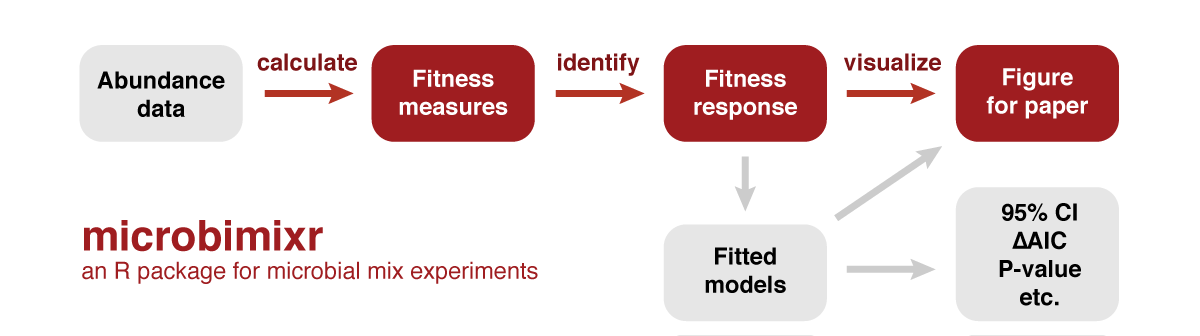
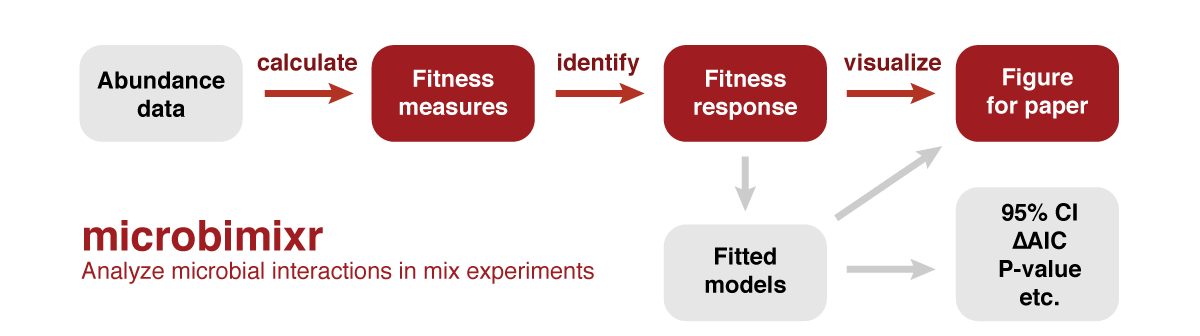
Simplify README
So it's not so redundant with the "Get started" vignette. Also add better title for the package website.

Changed region(s): [[0.0617, 0.7738, 0.4933, 0.8333], [0.8017, 0.9821, 0.925, 1.0], [0.555, 0.9821, 0.6783, 1.0]]

diff --git a/README.md b/README.md
@@ -9,14 +9,14 @@ microbimixr
 coverage](https://codecov.io/gh/matryoshkev/microbimixr/graph/badge.svg)](https://app.codecov.io/gh/matryoshkev/microbimixr)
 <!-- badges: end -->
 
-## Analyze microbial interactions in mix experiments
+microbimixr is an R package to analyze microbial interactions in mix
+experiments. Studies of cooperation and conflict among microbes often
+use a common experimental design: mix together two strains then measure
+how their survival and reproduction depend on strain frequency. How do
+they act differently together than they do on their own?
 
-Studies of cooperation and conflict among microbes often use a common
-experimental design: mix together two microbes (different strains of
-bacteria, for example) then measure how their survival and reproduction
-depend on strain frequency. How do they act differently together than
-they do on their own? microbimixr helps you get the most out of this
-data by providing tools to:
+microbimixr helps you get the most out of this data by providing tools
+to:
 
 -   Calculate best-practice fitness measures
 -   Identify which fitness measures are best for your data and research
@@ -25,10 +25,8 @@ data by providing tools to:
 
 ![](./man/figures/README-workflow.png)
 
-## Calculate fitness measures
-
 There are many ways to quantify microbial survival and reproduction.
-microbimixr makes it easy to calculate fitness measures that are:
+microbimixr makes it easy to use fitness measures that are:
 
 -   Robust and quantitatively comparable across different species and
     different types of interaction
@@ -36,110 +34,56 @@ microbimixr makes it easy to calculate fitness measures that are:
     intervals
 -   Useful for both individual and group-centered approaches to social
     behavior
--   Directly comparable to theoretical models of microbial evolution
-
-Starting from a data frame with the initial and final abundance of each
-microbe, calculate fitness with `calculate_mix_fitness()`:
-
-``` r
-library("microbimixr")
-fitness_myxo <- calculate_mix_fitness(
-    data_smith_2010, 
-    var_names = c(
-        initial_number_A = "initial_cells_evolved",
-        initial_number_B = "initial_cells_ancestral",
-        final_number_A = "final_spores_evolved",
-        final_number_B = "final_spores_ancestral", 
-        name_A = "evolved", 
-        name_B = "ancestral"
-    )
-)
-head(fitness_myxo)
-#>    name_A    name_B initial_fraction_A initial_ratio_A_B    fitness_A
-#> 1 evolved ancestral         1.00000000               Inf 1.200000e-07
-#> 2 evolved ancestral         0.98901099       90.00000000 1.555556e-07
-#> 3 evolved ancestral         0.90000000        9.00000000 2.600000e-06
-#> 4 evolved ancestral         0.50000000        1.00000000 4.280000e-04
-#> 5 evolved ancestral         0.10000000        0.11111111 4.200000e-02
-#> 6 evolved ancestral         0.01098901        0.01111111 8.420000e-01
-#>    fitness_B fitness_total fitness_ratio_A_B
-#> 1         NA  1.200000e-07                NA
-#> 2 0.00000400  1.978022e-07        0.03888889
-#> 3 0.00000480  2.820000e-06        0.54166667
-#> 4 0.00156000  9.940000e-04        0.27435897
-#> 5 0.01400000  1.680000e-02        3.00000000
-#> 6 0.02288889  3.189011e-02       36.78640777
-```
+-   Directly comparable to theoretical models based on kin selection,
+    multilevel selection, or game theory
 
 microbimixr works with most types of microbial abundance data including
 cell counts, cell density, optical density, and strain frequency.
 
-## Identify fitness response
-
-To quickly see what fitness measures would be most useful for your
-research question and data, use `plot_mix_fitness()`. It draws a
-combined figure that lets you compare strain fitness, total fitness, and
-the ratio of strain fitnesses. It also lets you compare linear and
-logarithmic measures of strain frequency.
+## Example usage
 
 ``` r
-plot_mix_fitness(fitness_myxo)
+library(microbimixr)
+
+# Calculate fitness measures
+fitness_myxo <- 
+    data_smith_2010 |>
+    calculate_mix_fitness(
+        var_names = c(
+            initial_number_A = "initial_cells_evolved",
+            initial_number_B = "initial_cells_ancestral",
+            final_number_A = "final_spores_evolved",
+            final_number_B = "final_spores_ancestral", 
+            name_A = "evolved", 
+            name_B = "ancestral"
+        ),
+        keep = "exptl_block"
+    )
+head(fitness_myxo)
+#>   exptl_block  name_A    name_B initial_fraction_A initial_ratio_A_B
+#> 1  2009-04-29 evolved ancestral         1.00000000               Inf
+#> 2  2009-04-29 evolved ancestral         0.98901099       90.00000000
+#> 3  2009-04-29 evolved ancestral         0.90000000        9.00000000
+#> 4  2009-04-29 evolved ancestral         0.50000000        1.00000000
+#> 5  2009-04-29 evolved ancestral         0.10000000        0.11111111
+#> 6  2009-04-29 evolved ancestral         0.01098901        0.01111111
+#>      fitness_A  fitness_B fitness_total fitness_ratio_A_B
+#> 1 1.200000e-07         NA  1.200000e-07                NA
+#> 2 1.555556e-07 0.00000400  1.978022e-07        0.03888889
+#> 3 2.600000e-06 0.00000480  2.820000e-06        0.54166667
+#> 4 4.280000e-04 0.00156000  9.940000e-04        0.27435897
+#> 5 4.200000e-02 0.01400000  1.680000e-02        3.00000000
+#> 6 8.420000e-01 0.02288889  3.189011e-02       36.78640777
 ```
-
-<!-- ggplot2::ggsave("README-compare-measures.png", width = 6.25, height = 4.5) -->
-
-![](./man/figures/README-compare-measures.png)
-
-For example, this interaction between two genotypes of *Myxococcus*
-bacteria would be easiest to interpret and analyze as total fitness as a
-function of initial genotype fraction and fitness ratio as a function of
-initial genotype ratio. They’re the simplest fitness responses and
-easiest to fit statistical models to. These plots also let you interpret
-your data in terms of the different fitness outcomes used by theories of
-social evolution like kin selection, multilevel selection, and game
-theory.
-
-## Visualize fitness effects
-
-Once you know which fitness measures to analyze, you can use microbimixr
-to make publication-quality figures. The package includes convenience
-functions to plot data with default settings appropriate for mix
-experiments. Fitness axes are plotted on $\log_{10}$ scales, for
-example, include 1 for reference (no net change in abundance), and have
-a minimum ten-fold range.
 
 ``` r
-library("patchwork")
-fig_total <- plot_total_fitness(fitness_myxo)
-fig_ratio <- plot_fitness_ratio(fitness_myxo, mix_scale = "ratio", ylim = c(1e-4, 1e4))
-fig_total + fig_ratio
+# Compare fitness measures
+plot_mix_fitness(fitness_myxo, mix_scale = "fraction")
 ```
 
-<!-- ggsave("README-plots-simple.png", width = 5, height = 2.25) -->
+<!-- ggplot2::ggsave("README-compare-myxo.pdf", width = 6.3, height = 2.25) -->
 
-![](./man/figures/README-plots-simple.png)
-
-You can also customize these plots using the
-[ggplot2](https://ggplot2.tidyverse.org/) graphics package:
-
-``` r
-library("ggplot2")
-fitness_myxo |>
-    plot_total_fitness(
-        xlab = "Initial frequency of evolved strain",
-        ylab = "Total sporulation\n(spores/cell)", 
-        ylim = c(1e-8, 1), color = "darkblue", fill = "skyblue"
-    ) +
-    geom_smooth(
-        method = "lm", formula = y ~ poly(x, 2), 
-        se = FALSE, linewidth = 0.5
-    ) +
-    theme_bw(base_size = 9)
-```
-
-<!-- ggsave("README-plots-custom.png", width = 2.5, height = 2) -->
-
-<img src="./man/figures/README-plots-custom.png" style="width:50.0%" />
+![](./man/figures/README-compare-myxo.png)
 
 ## Install microbimixr
 
@@ -156,5 +100,5 @@ devtools::install_github("matryoshkev/microbimixr", build_vignettes = TRUE)
     288:20201657. <https://doi.org/10.1098/rspb.2020.1657>
 
 <!--
-Use `devtools::build_readme()` to render `README.Rmd` and keep `README.md` up-to-date. 
+`devtools::build_readme()` to render `README.Rmd` and keep `README.md` up to date
 -->
